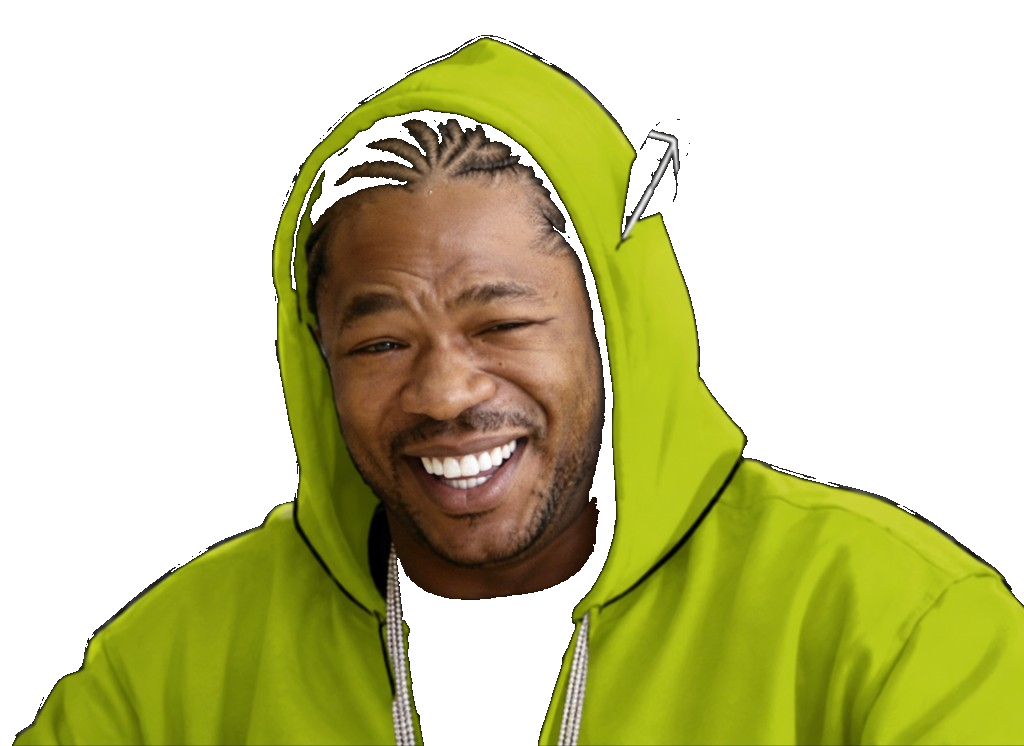
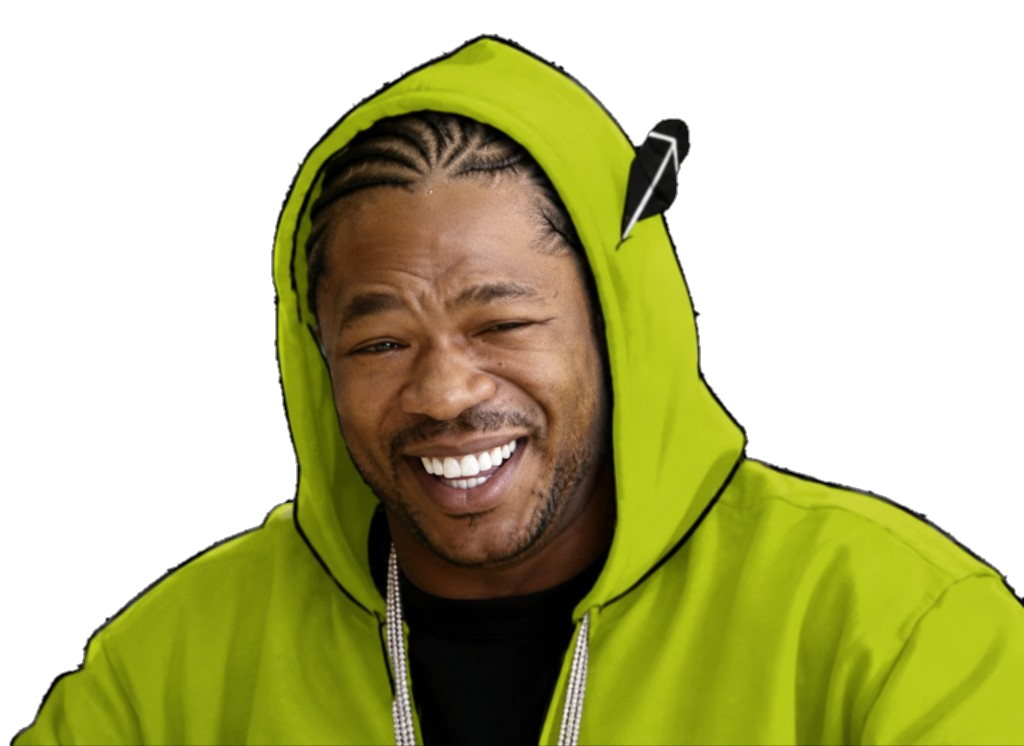
Fix mascot cutout interior holes; rename "plug in" to "connect"
The flood-fill background removal leaked into near-black interior
shadows (hood, tassel, outline). Now only exact-black background
connected to the corners is removed, enclosed holes are restored,
and the edge is feathered. Wallet copy: plug in/unplug -> connect/
disconnect.

diff --git a/app/components/wallet.tsx b/app/components/wallet.tsx
@@ -119,7 +119,7 @@ export function ConnectHero() {
             {isPending
               ? copy.connect.connecting
               : visible.length > 1
-                ? `plug in w/ ${c.name.toLowerCase()} →`
+                ? `connect w/ ${c.name.toLowerCase()} →`
                 : copy.connect.button}
           </button>
         ))}
@@ -212,7 +212,7 @@ export function WalletHeader() {
           {address ? `${address.slice(0, 6)}…${address.slice(-4)}` : ''}
         </span>
         <button className="linkish" onClick={() => disconnect()}>
-          unplug
+          disconnect
         </button>
       </span>
     </div>

diff --git a/app/lib/copy.ts b/app/lib/copy.ts
@@ -16,7 +16,7 @@ export const copy = {
   connect: {
     captionTop: CAPTION_TOP,
     captionBottom: CAPTION_BOTTOM,
-    button: 'plug in, dawg →',
+    button: 'connect, dawg →',
     connecting: 'shaking hands…',
   },
 